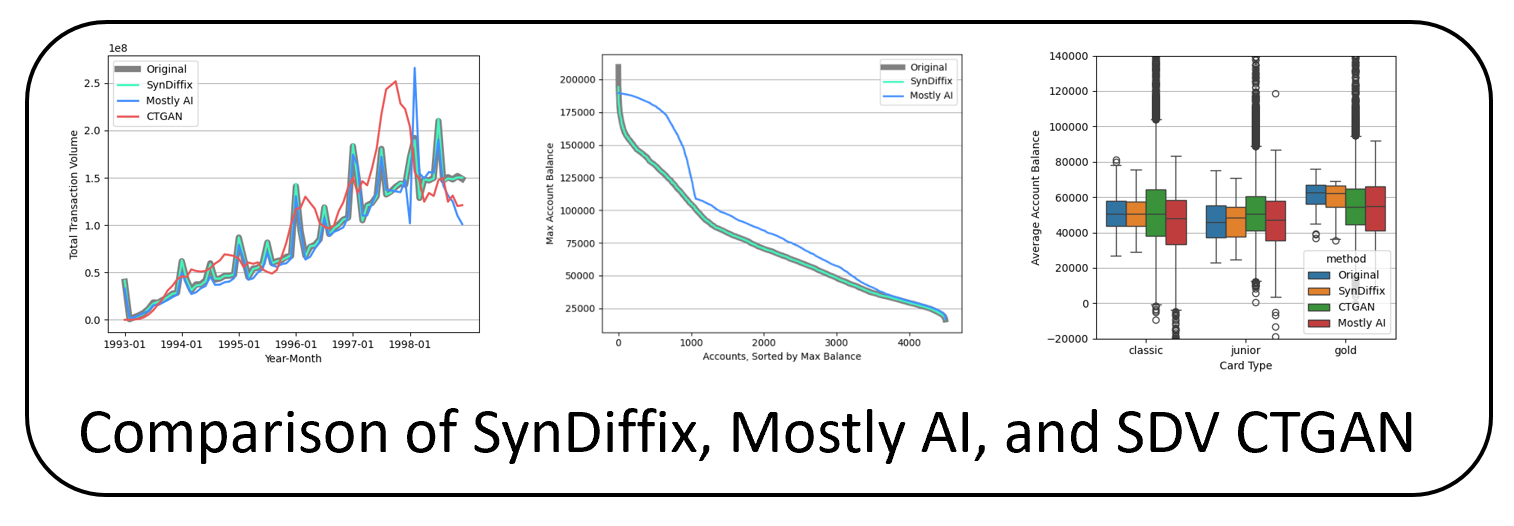
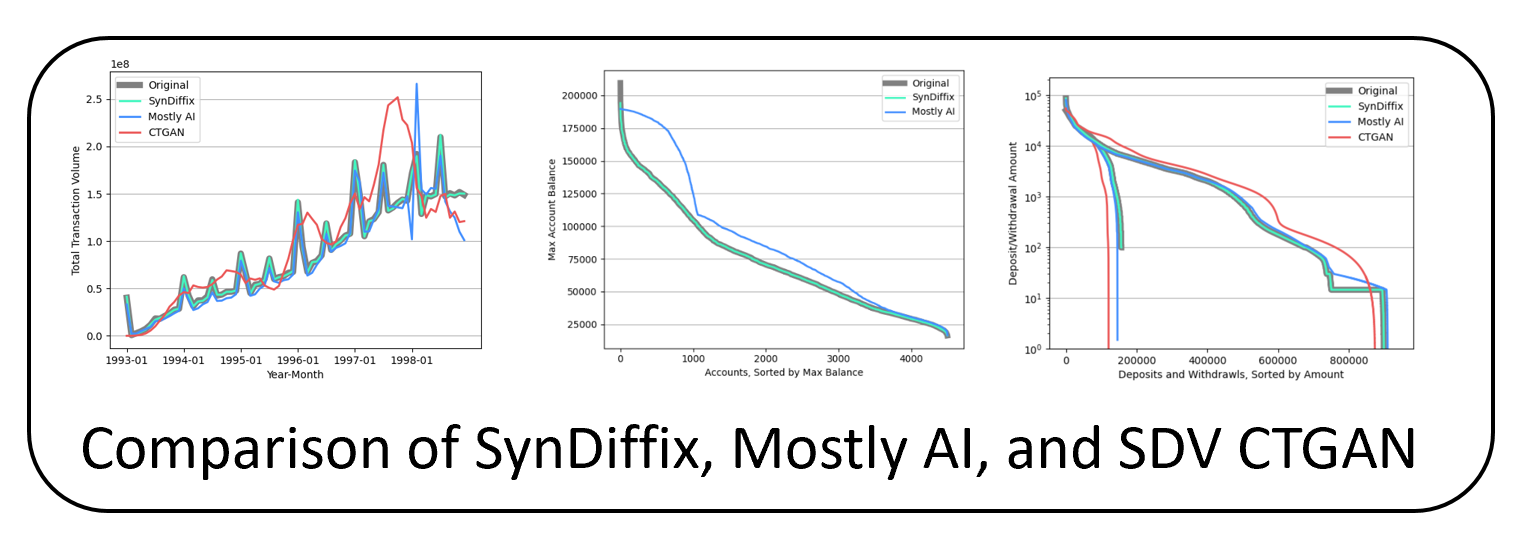
removed average account balance by type of credit card

diff --git a/_pages/syndiffix-mostlyai-ctgan.md b/_pages/syndiffix-mostlyai-ctgan.md
@@ -12,20 +12,6 @@ For this comparison, we use the [Czech banking dataset](https://data.world/lpetr
 
 The code for some of the following examples can be found [here](https://github.com/diffix/syndiffix/blob/main/docs/time-series.ipynb).
 
-## Average account balance by type of credit card
-
-892 of the 4500 bank accounts have credit cards. There are three classes of card, 'junior', 'classic', and 'gold'. Here we ask the question, "Does the average account balance differ based on the credit card class?"
-
-The following graphs are percentile boxplots (100th, 75th, 50th, 25th, and 0th percentiles, plus outliers) of the average account balance for each account with a credit card. The two plots show the same data, but grouped by synthesis method on the left, and by card type on the right.
-
-{% include image.html src="/assets/img/trans_account_card_clients.avg_balance.card_type.png" alt="SynDiffix usage style" max_width="650px" %}
-
-The SynDiffix synthetic data was produced by first computing the average balance per account from the original data to produce a two-column table consisting of the `avg_balance` and the `card_type`, with one row per account (i.e. not time-series data). This two-column table was then synthesized.
-
-From the original data, we see that indeed gold credit card holders have higher average account balances than classic card holders, which in turn are a little higher than junior cord holders. The data for SynDiffix is very close to the original data, and accurately shows the same trend.
-
-The data for Mostly AI and CTGAN are less accurate. Both show a slightly higher median balance for gold cards, but fail to show a lower balance for junior cards. Both Mostly AI and CTGAN show a much wider range of average balances, include negative average balances where none should exist.
-
 ## Distribution of deposit and withdrawal amounts
 
 There are five types of transaction operations. One of them represents deposits (VKLAD), while the other four represent different types of withdrawals (at least as near as we can tell from the Czech translations).
